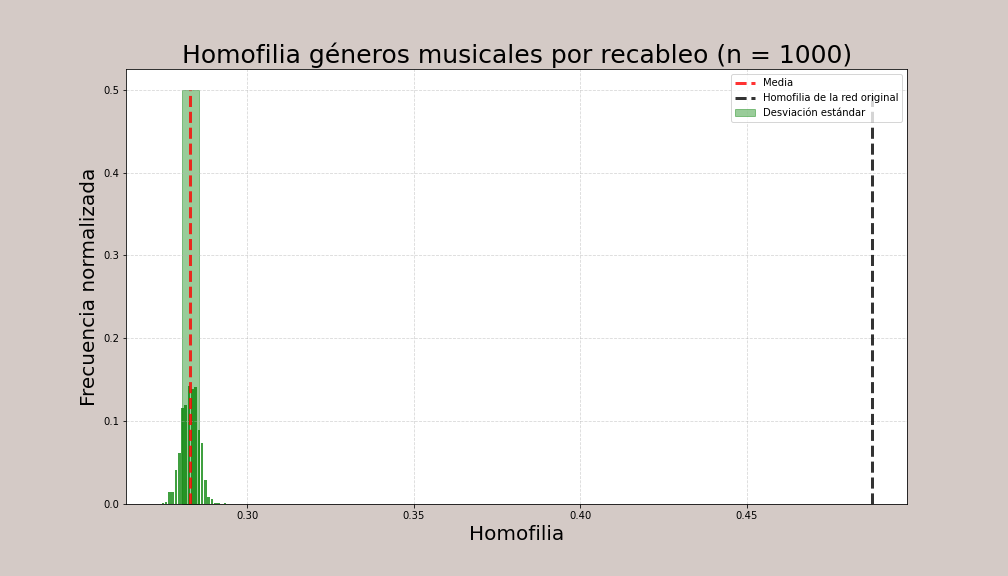
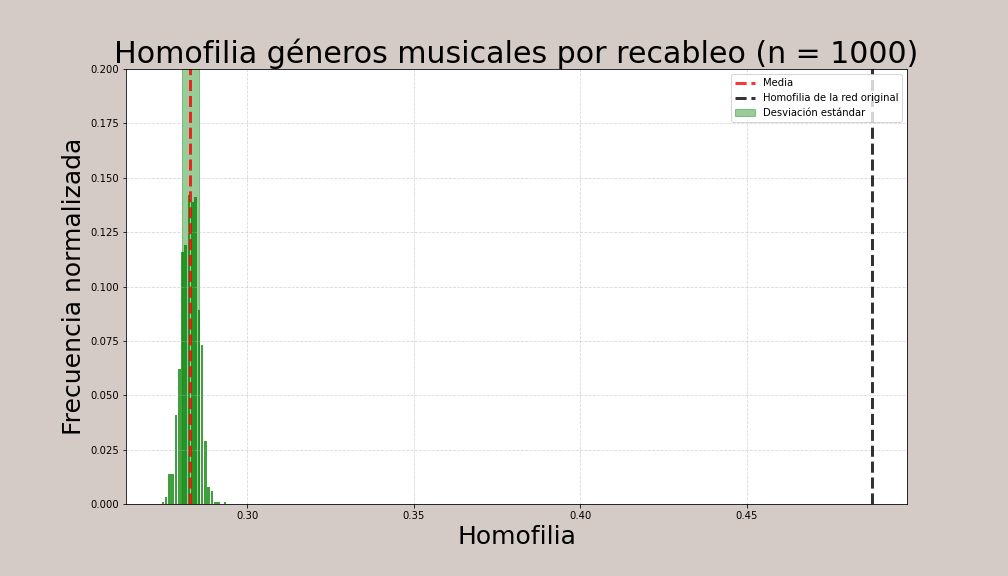
pusheo

diff --git a/codigos analisis/Analisis de la red 2.py b/codigos analisis/Analisis de la red 2.py
@@ -251,20 +251,32 @@ for iteracion in tqdm(range(1000)):
     clustering_recableo.append(nx.average_clustering(nueva_red_simple))
 #%%
 print(iteracion)
+
+
+
+#%%%
+
+with open("../datos analisis/Homofilia_por_recoloreo.pickle", "rb") as f:
+    homofilia = pickle.load(f)
+with open("../datos analisis/Homofilia_por_recableo.pickle", "rb") as f:
+    homofilia_recableo = pickle.load(f)
+with open("../datos analisis/Homofilia_generos_musicales_por_recableo.pickle", "rb") as f:
+    homofilia_recableo_generos_musicales = pickle.load(f)
+
 #%% GRAFICO HOMOFILIA RECOLOREO
 
 fig, ax = plt.subplots(nrows = 1, ncols = 1, figsize = (14, 8), facecolor='#D4CAC6')
 counts, bins = np.histogram(homofilia, bins=20)
-ax.hist(bins[:-1], bins, weights=counts/n, range = [0,1], rwidth = 0.80, facecolor='g', alpha=0.75)
+ax.hist(bins[:-1], bins, weights=counts/5000, range = [0,1], rwidth = 0.80, facecolor='g', alpha=0.75)
 ax.vlines(x = np.mean(homofilia), ymin = 0, ymax = 0.2, linewidth = 3, linestyle = '--', alpha = 0.8, color = 'r', label = 'Media')
 ax.vlines(x = homofilia_real, ymin = 0, ymax = 0.2, linewidth = 3, linestyle = '--', alpha = 0.8, color = 'k', label = 'Homofilia de la red original')
 ax.fill_between(x = [np.mean(homofilia)-np.std(homofilia),np.std(homofilia)+np.mean(homofilia)], y1 = 0.2, color = 'g', alpha = 0.4, label = 'Desviación estándar')
 ax.grid('on', linestyle = 'dashed', alpha = 0.5)
-ax.set_xlabel("Homofilia", fontsize=20)
-ax.set_ylabel("Frecuencia normalizada", fontsize=20)
-plt.title("Homofilia por recoloreo (n = 5000)",fontsize = 25)
+ax.set_xlabel("Homofilia", fontsize=25)
+ax.set_ylabel("Frecuencia normalizada", fontsize=25)
+plt.title("Homofilia por recoloreo (n = 5000)",fontsize = 30)
 ax.legend(loc = 'best')
-#plt.savefig("Homofilia por recoloreo.png")
+plt.savefig("Homofilia por recoloreo.png")
 plt.show()
   
 
@@ -272,14 +284,15 @@ plt.show()
 
 fig, ax = plt.subplots(nrows = 1, ncols = 1, figsize = (14, 8), facecolor='#D4CAC6')
 counts, bins = np.histogram(homofilia_recableo, bins=20)
-ax.hist(bins[:-1], bins, weights=counts/iteracion, range = [0,1], rwidth = 0.80, facecolor='g', alpha=0.75)
+ax.hist(bins[:-1], bins, weights=counts/1000, range = [0,1], rwidth = 0.80, facecolor='g', alpha=0.75)
 ax.vlines(x = np.mean(homofilia_recableo), ymin = 0, ymax = 0.3, linewidth = 3, linestyle = '--', alpha = 0.8, color = 'r', label = 'Media')
 ax.vlines(x = homofilia_real, ymin = 0, ymax = 0.3, linewidth = 3, linestyle = '--', alpha = 0.8, color = 'k', label = 'Homofilia de la red original')
 ax.fill_between(x = [np.mean(homofilia_recableo)-np.std(homofilia_recableo),np.std(homofilia_recableo)+np.mean(homofilia_recableo)], y1 = 0.3, color = 'g', alpha = 0.4, label = 'Desviación estándar')
 ax.grid('on', linestyle = 'dashed', alpha = 0.5)
-ax.set_xlabel("Homofilia", fontsize=20)
-ax.set_ylabel("Frecuencia normalizada", fontsize=20)
-plt.title("Homofilia por recableo (n = 1000)",fontsize = 25)
+ax.set_ylim(0,0.2)
+ax.set_xlabel("Homofilia", fontsize=25)
+ax.set_ylabel("Frecuencia normalizada", fontsize=25)
+plt.title("Homofilia por recableo (n = 1000)",fontsize = 30)
 ax.legend(loc = 'best')
 plt.savefig("Homofilia por recableo.png")
 plt.show()
@@ -288,14 +301,15 @@ plt.show()
 
 fig, ax = plt.subplots(nrows = 1, ncols = 1, figsize = (14, 8), facecolor='#D4CAC6')
 counts, bins = np.histogram(homofilia_recableo_generos_musicales, bins=20)
-ax.hist(bins[:-1], bins, weights=counts/iteracion, range = [0,1], rwidth = 0.80, facecolor='g', alpha=0.75)
+ax.hist(bins[:-1], bins, weights=counts/1000, range = [0,1], rwidth = 0.80, facecolor='g', alpha=0.75)
 ax.vlines(x = np.mean(homofilia_recableo_generos_musicales), ymin = 0, ymax = 0.5, linewidth = 3, linestyle = '--', alpha = 0.8, color = 'r', label = 'Media')
 ax.vlines(x = homofilia_generos, ymin = 0, ymax = 0.5, linewidth = 3, linestyle = '--', alpha = 0.8, color = 'k', label = 'Homofilia de la red original')
 ax.fill_between(x = [np.mean(homofilia_recableo_generos_musicales)-np.std(homofilia_recableo_generos_musicales),np.std(homofilia_recableo_generos_musicales)+np.mean(homofilia_recableo_generos_musicales)], y1 = 0.5, color = 'g', alpha = 0.4, label = 'Desviación estándar')
 ax.grid('on', linestyle = 'dashed', alpha = 0.5)
-ax.set_xlabel("Homofilia", fontsize=20)
-ax.set_ylabel("Frecuencia normalizada", fontsize=20)
-plt.title("Homofilia géneros musicales por recableo (n = 1000)",fontsize = 25)
+ax.set_ylim(0,0.2)
+ax.set_xlabel("Homofilia", fontsize=25)
+ax.set_ylabel("Frecuencia normalizada", fontsize=25)
+plt.title("Homofilia géneros musicales por recableo (n = 1000)",fontsize = 30)
 ax.legend(loc = 'best')
 plt.savefig("Homofilia generos musicales por recableo.png")
 plt.show()
@@ -304,13 +318,33 @@ plt.show()
 # # %% CALCULO DE CLUSTERING POR RECABLEO
 # clustering_recableo = pd.read_pickle("Clustering_por_recableo.pickle")
 #%%
+with open("../datos analisis/Clustering_por_recableo.pickle", "rb") as f:
+    clustering_recableo = pickle.load(f)
+    
 nueva_red_simple = nx.Graph()
 nueva_red_simple.add_nodes_from(list(G.nodes()))
 nueva_red_simple.add_edges_from(list(G.edges()))
 #%%
-G_copia = nx.Graph(G)
-print(f"El valor del clustering es {nx.average_clustering(G_copia)}")
+with open("../red_filtrada/red_filtrada.gpickle", "rb") as f:
+    G = pickle.load(f)
+
+print(f"El valor del clustering es {nx.average_clustering(nx.Graph(G))}")
 print(f"El valor del clustering al recablear es de {np.mean(clustering_recableo)} +- {np.std(clustering_recableo)}")
+
+fig, ax = plt.subplots(nrows = 1, ncols = 1, figsize = (14, 8), facecolor='#D4CAC6')
+counts, bins = np.histogram(clustering_recableo, bins=20)
+ax.hist(bins[:-1], bins, weights=counts/1000, range = [0,1], rwidth = 0.80, facecolor='g', alpha=0.75)
+ax.vlines(x = np.mean(clustering_recableo), ymin = 0, ymax = 0.5, linewidth = 3, linestyle = '--', alpha = 0.8, color = 'r', label = 'Media')
+ax.vlines(x = nx.average_clustering(nx.Graph(G)), ymin = 0, ymax = 0.5, linewidth = 3, linestyle = '--', alpha = 0.8, color = 'k', label = 'Clustering de la red original')
+ax.fill_between(x = [np.mean(clustering_recableo)-np.std(clustering_recableo),np.std(clustering_recableo)+np.mean(clustering_recableo)], y1 = 0.5, color = 'g', alpha = 0.4, label = 'Desviación estándar')
+ax.grid('on', linestyle = 'dashed', alpha = 0.5)
+ax.set_ylim(0,0.2)
+ax.set_xlabel("Clustering", fontsize=25)
+ax.set_ylabel("Frecuencia normalizada", fontsize=25)
+plt.title("Clustering por recableo (n = 1000)",fontsize = 30)
+ax.legend(loc = 'best')
+plt.savefig("Clustering.png")
+plt.show()
 
 # %%
 pickle.dump(homofilia, open(f'Homofilia_por_recoloreo.pickle', 'wb'))
